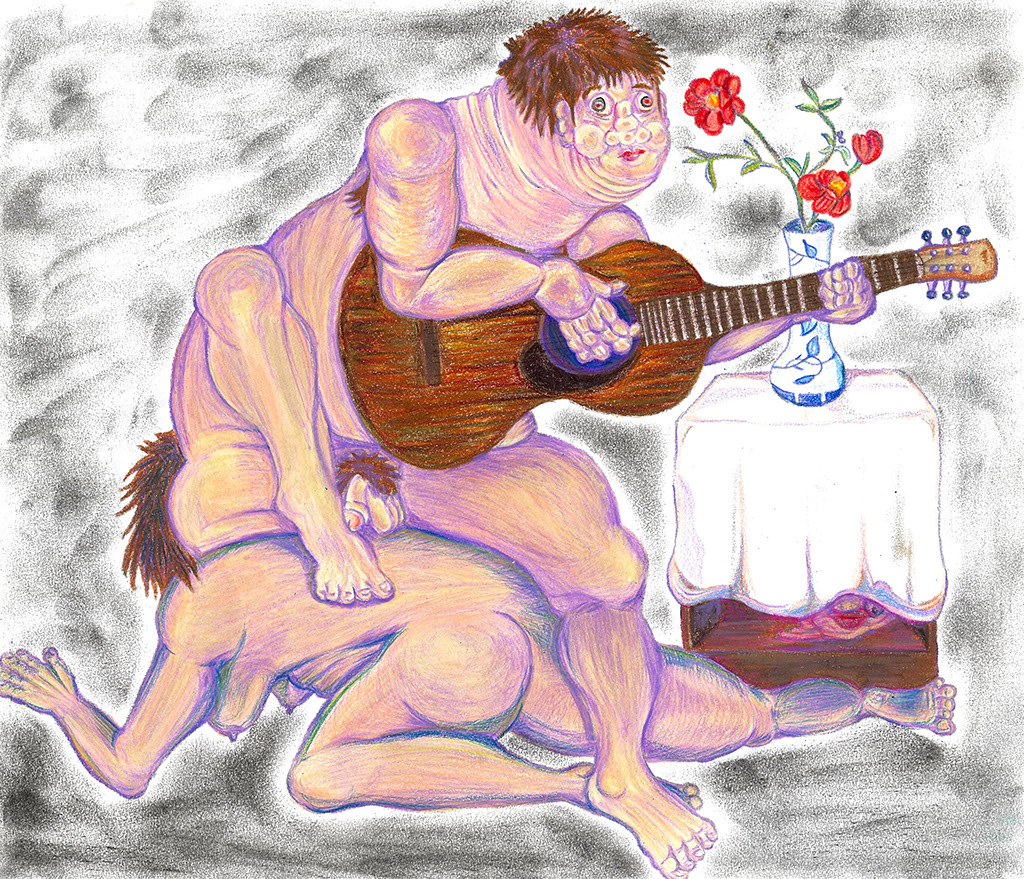
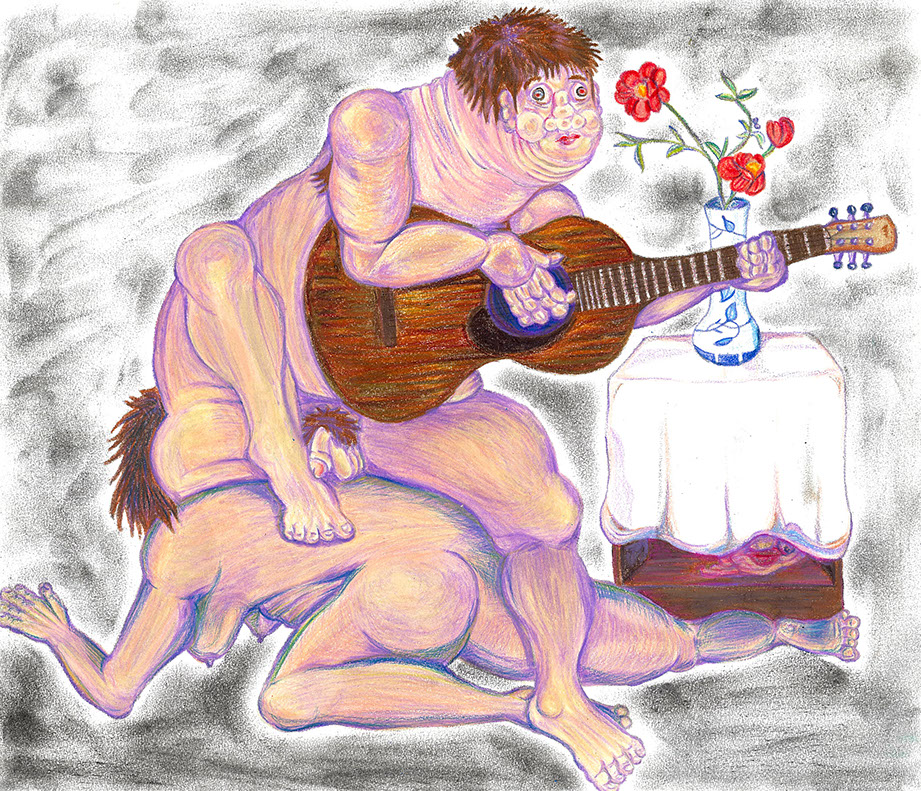
add

Changed region(s): [[0.76, 0.182, 0.7904, 0.2124], [0.6384, 0.3641, 0.6688, 0.3944], [0.608, 0.091, 0.6384, 0.1214]]

diff --git a/baitei/css/site_global.css b/baitei/css/site_global.css
@@ -1,1 +1,1 @@
-html{min-height:100%;min-width:100%;-ms-text-size-adjust:none;}body,div,dl,dt,dd,ul,ol,li,nav,h1,h2,h3,h4,h5,h6,pre,code,form,fieldset,legend,input,button,textarea,p,blockquote,th,td,a{margin:0px;padding:0px;border-width:0px;border-style:solid;border-color:transparent;-webkit-transform-origin:left top;-ms-transform-origin:left top;-o-transform-origin:left top;transform-origin:left top;background-repeat:no-repeat;}button.submit-btn{-moz-box-sizing:content-box;-webkit-box-sizing:content-box;box-sizing:content-box;}.transition{-webkit-transition-property:background-image,background-position,background-color,border-color,border-radius,color,font-size,font-style,font-weight,letter-spacing,line-height,text-align,box-shadow,text-shadow,opacity;transition-property:background-image,background-position,background-color,border-color,border-radius,color,font-size,font-style,font-weight,letter-spacing,line-height,text-align,box-shadow,text-shadow,opacity;}.transition *{-webkit-transition:inherit;transition:inherit;}table{border-collapse:collapse;border-spacing:0px;}fieldset,img{border:0px;border-style:solid;-webkit-transform-origin:left top;-ms-transform-origin:left top;-o-transform-origin:left top;transform-origin:left top;}address,caption,cite,code,dfn,em,strong,th,var,optgroup{font-style:inherit;font-weight:inherit;}del,ins{text-decoration:none;}li{list-style:none;}caption,th{text-align:left;}h1,h2,h3,h4,h5,h6{font-size:100%;font-weight:inherit;}input,button,textarea,select,optgroup,option{font-family:inherit;font-size:inherit;font-style:inherit;font-weight:inherit;}.form-grp input,.form-grp textarea{-webkit-appearance:none;-webkit-border-radius:0;}body{font-family:Arial, Helvetica Neue, Helvetica, sans-serif;text-align:left;font-size:14px;line-height:17px;word-wrap:break-word;text-rendering:optimizeLegibility;-moz-font-feature-settings:'liga';-ms-font-feature-settings:'liga';-webkit-font-feature-settings:'liga';font-feature-settings:'liga';}a:link{color:#050505;text-decoration:underline;}a:visited{color:#050505;text-decoration:underline;}a:hover{color:#050505;text-decoration:underline;}a:active{color:#050505;text-decoration:underline;}a.nontext{color:black;text-decoration:none;font-style:normal;font-weight:normal;}.normal_text{color:#000000;direction:ltr;font-family:Arial, Helvetica Neue, Helvetica, sans-serif;font-size:14px;font-style:normal;font-weight:normal;letter-spacing:0px;line-height:17px;text-align:left;text-decoration:none;text-indent:0px;text-transform:none;vertical-align:0px;padding:0px;}.list0 li:before{position:absolute;right:100%;letter-spacing:0px;text-decoration:none;font-weight:normal;font-style:normal;}.rtl-list li:before{right:auto;left:100%;}.nls-None > li:before,.nls-None .list3 > li:before,.nls-None .list6 > li:before{margin-right:6px;content:'•';}.nls-None .list1 > li:before,.nls-None .list4 > li:before,.nls-None .list7 > li:before{margin-right:6px;content:'○';}.nls-None,.nls-None .list1,.nls-None .list2,.nls-None .list3,.nls-None .list4,.nls-None .list5,.nls-None .list6,.nls-None .list7,.nls-None .list8{padding-left:34px;}.nls-None.rtl-list,.nls-None .list1.rtl-list,.nls-None .list2.rtl-list,.nls-None .list3.rtl-list,.nls-None .list4.rtl-list,.nls-None .list5.rtl-list,.nls-None .list6.rtl-list,.nls-None .list7.rtl-list,.nls-None .list8.rtl-list{padding-left:0px;padding-right:34px;}.nls-None .list2 > li:before,.nls-None .list5 > li:before,.nls-None .list8 > li:before{margin-right:6px;content:'-';}.nls-None.rtl-list > li:before,.nls-None .list1.rtl-list > li:before,.nls-None .list2.rtl-list > li:before,.nls-None .list3.rtl-list > li:before,.nls-None .list4.rtl-list > li:before,.nls-None .list5.rtl-list > li:before,.nls-None .list6.rtl-list > li:before,.nls-None .list7.rtl-list > li:before,.nls-None .list8.rtl-list > li:before{margin-right:0px;margin-left:6px;}.TabbedPanelsTab{white-space:nowrap;}.MenuBar .MenuBarView,.MenuBar .SubMenuView{display:block;list-style:none;}.MenuBar .SubMenu{display:none;position:absolute;}.NoWrap{white-space:nowrap;word-wrap:normal;}.rootelem{margin-left:auto;margin-right:auto;}.colelem{display:inline;float:left;clear:both;}.clearfix:after{content:"\0020";visibility:hidden;display:block;height:0px;clear:both;}*:first-child+html .clearfix{zoom:1;}.clip_frame{overflow:hidden;}.popup_anchor{position:relative;width:0px;height:0px;}.allow_click_through *{pointer-events:auto;}.popup_element{z-index:100000;}.svg{display:block;vertical-align:top;}span.wrap{content:'';clear:left;display:block;}span.actAsInlineDiv{display:inline-block;}.position_content,.excludeFromNormalFlow{float:left;}.preload_images{position:absolute;overflow:hidden;left:-9999px;top:-9999px;height:1px;width:1px;}.preload{height:1px;width:1px;}.animateStates{-webkit-transition:0.3s ease-in-out;-moz-transition:0.3s ease-in-out;-o-transition:0.3s ease-in-out;transition:0.3s ease-in-out;}[data-whatinput="mouse"] *:focus,[data-whatinput="touch"] *:focus,input:focus,textarea:focus{outline:none;}textarea{resize:none;overflow:auto;}.allow_click_through,.fld-prompt{pointer-events:none;}.wrapped-input{position:absolute;top:0px;left:0px;background:transparent;border:none;}.submit-btn{z-index:50000;cursor:pointer;}.anchor_item{width:22px;height:18px;}.MenuBar .SubMenuVisible,.MenuBarVertical .SubMenuVisible,.MenuBar .SubMenu .SubMenuVisible,.popup_element.Active,span.actAsPara,.actAsDiv,a.nonblock.nontext,img.block{display:block;}.widget_invisible,.js .invi,.js .mse_pre_init{visibility:hidden;}.ose_ei{visibility:hidden;z-index:0;}.no_vert_scroll{overflow-y:hidden;}.always_vert_scroll{overflow-y:scroll;}.always_horz_scroll{overflow-x:scroll;}.fullscreen{overflow:hidden;left:0px;top:0px;position:fixed;height:100%;width:100%;-moz-box-sizing:border-box;-webkit-box-sizing:border-box;-ms-box-sizing:border-box;box-sizing:border-box;}.fullwidth{position:absolute;}.borderbox{-moz-box-sizing:border-box;-webkit-box-sizing:border-box;-ms-box-sizing:border-box;box-sizing:border-box;}.scroll_wrapper{position:absolute;overflow:auto;left:0px;right:0px;top:0px;bottom:0px;padding-top:0px;padding-bottom:0px;margin-top:0px;margin-bottom:0px;}.browser_width > *{position:absolute;left:0px;right:0px;}.grpelem,.accordion_wrapper{display:inline;float:left;}.fld-checkbox input[type=checkbox],.fld-radiobutton input[type=radio]{position:absolute;overflow:hidden;clip:rect(0px, 0px, 0px, 0px);height:1px;width:1px;margin:-1px;padding:0px;border:0px;}.fld-checkbox input[type=checkbox] + label,.fld-radiobutton input[type=radio] + label{display:inline-block;background-repeat:no-repeat;cursor:pointer;float:left;width:100%;height:100%;}.pointer_cursor,.fld-recaptcha-mode,.fld-recaptcha-refresh,.fld-recaptcha-help{cursor:pointer;}p,h1,h2,h3,h4,h5,h6,ol,ul,span.actAsPara{max-height:1000000px;}.superscript{vertical-align:super;font-size:66%;line-height:0px;}.subscript{vertical-align:sub;font-size:66%;line-height:0px;}.horizontalSlideShow{-ms-touch-action:pan-y;touch-action:pan-y;}.verticalSlideShow{-ms-touch-action:pan-x;touch-action:pan-x;}.colelem100,.verticalspacer{clear:both;}.list0 li,.MenuBar .MenuItemContainer,.SlideShowContentPanel .fullscreen img,.css_verticalspacer .verticalspacer{position:relative;}.popup_element.Inactive,.js .disn,.js .an_invi,.hidden,.breakpoint{display:none;}#muse_css_mq{position:absolute;display:none;background-color:#FFFFFE;}.fluid_height_spacer{width:0.01px;}.muse_check_css{display:none;position:fixed;}@media screen and (-webkit-min-device-pixel-ratio:0){body{text-rendering:auto;}}
+html{min-height:100%;min-width:100%;-ms-text-size-adjust:none;}body,div,dl,dt,dd,ul,ol,li,nav,h1,h2,h3,h4,h5,h6,pre,code,form,fieldset,legend,input,button,textarea,p,blockquote,th,td,a{margin:0px;padding:0px;border-width:0px;border-style:solid;border-color:transparent;-webkit-transform-origin:left top;-ms-transform-origin:left top;-o-transform-origin:left top;transform-origin:left top;background-repeat:no-repeat;}button.submit-btn{-moz-box-sizing:content-box;-webkit-box-sizing:content-box;box-sizing:content-box;}.transition{-webkit-transition-property:background-image,background-position,background-color,border-color,border-radius,color,font-size,font-style,font-weight,letter-spacing,line-height,text-align,box-shadow,text-shadow,opacity;transition-property:background-image,background-position,background-color,border-color,border-radius,color,font-size,font-style,font-weight,letter-spacing,line-height,text-align,box-shadow,text-shadow,opacity;}.transition *{-webkit-transition:inherit;transition:inherit;}table{border-collapse:collapse;border-spacing:0px;}fieldset,img{border:0px;border-style:solid;-webkit-transform-origin:left top;-ms-transform-origin:left top;-o-transform-origin:left top;transform-origin:left top;}address,caption,cite,code,dfn,em,strong,th,var,optgroup{font-style:inherit;font-weight:inherit;}del,ins{text-decoration:none;}li{list-style:none;}caption,th{text-align:left;}h1,h2,h3,h4,h5,h6{font-size:100%;font-weight:inherit;}input,button,textarea,select,optgroup,option{font-family:inherit;font-size:inherit;font-style:inherit;font-weight:inherit;}.form-grp input,.form-grp textarea{-webkit-appearance:none;-webkit-border-radius:0;}body{font-family:Arial, Helvetica Neue, Helvetica, sans-serif;text-align:left;font-size:14px;line-height:17px;word-wrap:break-word;text-rendering:optimizeLegibility;-moz-font-feature-settings:'liga';-ms-font-feature-settings:'liga';-webkit-font-feature-settings:'liga';font-feature-settings:'liga';}a{color:inherit;text-decoration:inherit;}a:link{color:#050505;text-decoration:underline;}a:visited{color:#050505;text-decoration:underline;}a:hover{color:#050505;text-decoration:underline;}a:active{color:#050505;text-decoration:underline;}a.nontext{color:black;text-decoration:none;font-style:normal;font-weight:normal;}.normal_text{color:#000000;direction:ltr;font-family:Arial, Helvetica Neue, Helvetica, sans-serif;font-size:14px;font-style:normal;font-weight:normal;letter-spacing:0px;line-height:17px;text-align:left;text-decoration:none;text-indent:0px;text-transform:none;vertical-align:0px;padding:0px;}.list0 li:before{position:absolute;right:100%;letter-spacing:0px;text-decoration:none;font-weight:normal;font-style:normal;}.rtl-list li:before{right:auto;left:100%;}.nls-None > li:before,.nls-None .list3 > li:before,.nls-None .list6 > li:before{margin-right:6px;content:'•';}.nls-None .list1 > li:before,.nls-None .list4 > li:before,.nls-None .list7 > li:before{margin-right:6px;content:'○';}.nls-None,.nls-None .list1,.nls-None .list2,.nls-None .list3,.nls-None .list4,.nls-None .list5,.nls-None .list6,.nls-None .list7,.nls-None .list8{padding-left:34px;}.nls-None.rtl-list,.nls-None .list1.rtl-list,.nls-None .list2.rtl-list,.nls-None .list3.rtl-list,.nls-None .list4.rtl-list,.nls-None .list5.rtl-list,.nls-None .list6.rtl-list,.nls-None .list7.rtl-list,.nls-None .list8.rtl-list{padding-left:0px;padding-right:34px;}.nls-None .list2 > li:before,.nls-None .list5 > li:before,.nls-None .list8 > li:before{margin-right:6px;content:'-';}.nls-None.rtl-list > li:before,.nls-None .list1.rtl-list > li:before,.nls-None .list2.rtl-list > li:before,.nls-None .list3.rtl-list > li:before,.nls-None .list4.rtl-list > li:before,.nls-None .list5.rtl-list > li:before,.nls-None .list6.rtl-list > li:before,.nls-None .list7.rtl-list > li:before,.nls-None .list8.rtl-list > li:before{margin-right:0px;margin-left:6px;}.TabbedPanelsTab{white-space:nowrap;}.MenuBar .MenuBarView,.MenuBar .SubMenuView{display:block;list-style:none;}.MenuBar .SubMenu{display:none;position:absolute;}.NoWrap{white-space:nowrap;word-wrap:normal;}.rootelem{margin-left:auto;margin-right:auto;}.colelem{display:inline;float:left;clear:both;}.clearfix:after{content:"\0020";visibility:hidden;display:block;height:0px;clear:both;}*:first-child+html .clearfix{zoom:1;}.clip_frame{overflow:hidden;}.popup_anchor{position:relative;width:0px;height:0px;}.allow_click_through *{pointer-events:auto;}.popup_element{z-index:100000;}.svg{display:block;vertical-align:top;}span.wrap{content:'';clear:left;display:block;}span.actAsInlineDiv{display:inline-block;}.position_content,.excludeFromNormalFlow{float:left;}.preload_images{position:absolute;overflow:hidden;left:-9999px;top:-9999px;height:1px;width:1px;}.preload{height:1px;width:1px;}.animateStates{-webkit-transition:0.3s ease-in-out;-moz-transition:0.3s ease-in-out;-o-transition:0.3s ease-in-out;transition:0.3s ease-in-out;}[data-whatinput="mouse"] *:focus,[data-whatinput="touch"] *:focus,input:focus,textarea:focus{outline:none;}textarea{resize:none;overflow:auto;}.allow_click_through,.fld-prompt{pointer-events:none;}.wrapped-input{position:absolute;top:0px;left:0px;background:transparent;border:none;}.submit-btn{z-index:50000;cursor:pointer;}.anchor_item{width:22px;height:18px;}.MenuBar .SubMenuVisible,.MenuBarVertical .SubMenuVisible,.MenuBar .SubMenu .SubMenuVisible,.popup_element.Active,span.actAsPara,.actAsDiv,a.nonblock.nontext,img.block{display:block;}.widget_invisible,.js .invi,.js .mse_pre_init{visibility:hidden;}.ose_ei{visibility:hidden;z-index:0;}.no_vert_scroll{overflow-y:hidden;}.always_vert_scroll{overflow-y:scroll;}.always_horz_scroll{overflow-x:scroll;}.fullscreen{overflow:hidden;left:0px;top:0px;position:fixed;height:100%;width:100%;-moz-box-sizing:border-box;-webkit-box-sizing:border-box;-ms-box-sizing:border-box;box-sizing:border-box;}.fullwidth{position:absolute;}.borderbox{-moz-box-sizing:border-box;-webkit-box-sizing:border-box;-ms-box-sizing:border-box;box-sizing:border-box;}.scroll_wrapper{position:absolute;overflow:auto;left:0px;right:0px;top:0px;bottom:0px;padding-top:0px;padding-bottom:0px;margin-top:0px;margin-bottom:0px;}.browser_width > *{position:absolute;left:0px;right:0px;}.grpelem,.accordion_wrapper{display:inline;float:left;}.fld-checkbox input[type=checkbox],.fld-radiobutton input[type=radio]{position:absolute;overflow:hidden;clip:rect(0px, 0px, 0px, 0px);height:1px;width:1px;margin:-1px;padding:0px;border:0px;}.fld-checkbox input[type=checkbox] + label,.fld-radiobutton input[type=radio] + label{display:inline-block;background-repeat:no-repeat;cursor:pointer;float:left;width:100%;height:100%;}.pointer_cursor,.fld-recaptcha-mode,.fld-recaptcha-refresh,.fld-recaptcha-help{cursor:pointer;}p,h1,h2,h3,h4,h5,h6,ol,ul,span.actAsPara{max-height:1000000px;}.superscript{vertical-align:super;font-size:66%;line-height:0px;}.subscript{vertical-align:sub;font-size:66%;line-height:0px;}.horizontalSlideShow{-ms-touch-action:pan-y;touch-action:pan-y;}.verticalSlideShow{-ms-touch-action:pan-x;touch-action:pan-x;}.colelem100,.verticalspacer{clear:both;}.list0 li,.MenuBar .MenuItemContainer,.SlideShowContentPanel .fullscreen img,.css_verticalspacer .verticalspacer{position:relative;}.popup_element.Inactive,.js .disn,.js .an_invi,.hidden,.breakpoint{display:none;}#muse_css_mq{position:absolute;display:none;background-color:#FFFFFE;}.fluid_height_spacer{width:0.01px;}.muse_check_css{display:none;position:fixed;}@media screen and (-webkit-min-device-pixel-ratio:0){body{text-rendering:auto;}}

diff --git a/baitei/css/index.css b/baitei/css/index.css
@@ -1,1 +1,1 @@
-.version.index{color:#0000E3;background-color:#E511AD;}#page{z-index:1;width:1024px;min-height:2047px;background-image:none;border-width:0px;border-color:#000000;background-color:transparent;padding-bottom:62px;margin-left:auto;margin-right:auto;}#untitled{position:relative;margin-right:-10000px;width:22px;left:-100px;}#pu1965{z-index:27;width:0.01px;margin-right:-10000px;margin-top:88px;}#u1965{z-index:27;width:1024px;background-color:transparent;position:relative;}#u1975{z-index:29;width:343px;background-color:transparent;margin-left:341px;margin-top:88px;position:relative;}#u1879{z-index:16;width:50px;height:50px;position:relative;margin-right:-10000px;left:1074px;}.ie #u1879{background-color:#FFFFFF;opacity:0.01;-ms-filter:"progid:DXImageTransform.Microsoft.Alpha(Opacity=1)";filter:alpha(opacity=1);}.css_verticalspacer .verticalspacer{height:calc(100vh - 1996px);}#u1915{z-index:24;width:116px;background-color:transparent;position:relative;margin-right:-10000px;margin-top:-9px;}#pu1902{z-index:2;width:0.01px;margin-right:-10000px;margin-top:-1997px;margin-left:904px;}#u1902{z-index:2;width:170px;border-width:0px;border-color:transparent;background-color:transparent;position:relative;}#u1851-5{z-index:3;width:50px;min-height:9px;background-color:transparent;line-height:17px;color:#050505;text-align:center;font-size:11px;font-family:Helvetica, Helvetica Neue, Arial, sans-serif;position:relative;margin-right:-10000px;}#u1851{color:#050505;}#u1853-4{z-index:12;width:38px;min-height:8px;background-color:transparent;line-height:17px;color:#050505;text-align:center;font-size:11px;font-family:Helvetica, Helvetica Neue, Arial, sans-serif;position:relative;margin-right:-10000px;left:66px;}#u1852-4{z-index:8;width:50px;min-height:8px;background-color:transparent;line-height:17px;color:#050505;text-align:center;font-size:11px;font-family:Helvetica, Helvetica Neue, Arial, sans-serif;position:relative;margin-right:-10000px;left:120px;}#u1853,#u1852{text-decoration:underline;}#u1962{z-index:17;width:95px;border-width:0px;border-color:transparent;background-color:transparent;margin-left:25px;margin-top:1955px;position:relative;}#u1909{z-index:18;width:25px;background-color:transparent;position:relative;margin-right:-10000px;}#u1911{z-index:20;width:25px;background-color:transparent;position:relative;margin-right:-10000px;left:35px;}#u1913{z-index:22;width:25px;background-color:transparent;position:relative;margin-right:-10000px;left:70px;}#muse_css_mq,.html{background-color:#FFFFFF;}body{position:relative;min-width:1024px;}.verticalspacer{min-height:113px;}
+.version.index{color:#000001;background-color:#654D4B;}#page{z-index:1;width:1024px;min-height:1931px;background-image:none;border-width:0px;border-color:#000000;background-color:transparent;padding-bottom:62px;margin-left:auto;margin-right:auto;}#untitled{position:relative;margin-right:-10000px;width:22px;left:-100px;}#pu1965{z-index:27;width:0.01px;margin-right:-10000px;margin-top:88px;margin-left:51px;}#u1965{z-index:27;width:921px;background-color:transparent;position:relative;}#u2004{z-index:29;width:921px;border-width:0px;border-color:transparent;background-color:transparent;margin-left:1px;margin-top:88px;position:relative;}#u1975{z-index:30;width:343px;background-color:transparent;position:relative;margin-right:-10000px;}#u1991{z-index:32;width:490px;background-color:transparent;position:relative;margin-right:-10000px;left:431px;}#u1879{z-index:16;width:50px;height:50px;position:relative;margin-right:-10000px;left:1074px;}.ie #u1879{background-color:#FFFFFF;opacity:0.01;-ms-filter:"progid:DXImageTransform.Microsoft.Alpha(Opacity=1)";filter:alpha(opacity=1);}.css_verticalspacer .verticalspacer{height:calc(100vh - 1907px);}#u1915{z-index:24;width:116px;background-color:transparent;position:relative;margin-right:-10000px;margin-top:-8px;left:52px;}#pu1902{z-index:2;width:0.01px;margin-right:-10000px;margin-top:-1881px;margin-left:877px;}#u1902{z-index:2;width:170px;border-width:0px;border-color:transparent;background-color:transparent;margin-left:27px;position:relative;}#u1851-5{z-index:3;width:50px;min-height:9px;background-color:transparent;color:#050505;text-align:center;font-size:11px;line-height:17px;font-family:Helvetica, Helvetica Neue, Arial, sans-serif;position:relative;margin-right:-10000px;}#u1851{color:#050505;}#u1853-4{z-index:12;width:38px;min-height:8px;background-color:transparent;color:#050505;text-align:center;font-size:11px;line-height:17px;font-family:Helvetica, Helvetica Neue, Arial, sans-serif;position:relative;margin-right:-10000px;left:66px;}#u1852-4{z-index:8;width:50px;min-height:8px;background-color:transparent;color:#050505;text-align:center;font-size:11px;line-height:17px;font-family:Helvetica, Helvetica Neue, Arial, sans-serif;position:relative;margin-right:-10000px;left:120px;}#u1853,#u1852{text-decoration:underline;}#u1962{z-index:17;width:95px;border-width:0px;border-color:transparent;background-color:transparent;margin-top:1839px;position:relative;}#u1909{z-index:18;width:25px;background-color:transparent;position:relative;margin-right:-10000px;}#u1911{z-index:20;width:25px;background-color:transparent;position:relative;margin-right:-10000px;left:35px;}#u1913{z-index:22;width:25px;background-color:transparent;position:relative;margin-right:-10000px;left:70px;}#muse_css_mq,.html{background-color:#FFFFFF;}body{position:relative;min-width:1024px;}.verticalspacer{min-height:85px;}

diff --git a/baitei/index.html b/baitei/index.html
@@ -15,8 +15,8 @@ if(typeof Muse == "undefined") window.Muse = {}; window.Muse.assets = {"required
   
   <title>baitei</title>
   <!-- CSS -->
-  <link rel="stylesheet" type="text/css" href="css/site_global.css?crc=4139458515"/>
-  <link rel="stylesheet" type="text/css" href="css/index.css?crc=3823440301" id="pagesheet"/>
+  <link rel="stylesheet" type="text/css" href="css/site_global.css?crc=524582882"/>
+  <link rel="stylesheet" type="text/css" href="css/index.css?crc=23416139" id="pagesheet"/>
    </head>
  <body>
 
@@ -24,14 +24,19 @@ if(typeof Muse == "undefined") window.Muse = {}; window.Muse.assets = {"required
    <a class="anchor_item grpelem" id="untitled"></a>
    <div class="clearfix grpelem" id="pu1965"><!-- column -->
     <div class="clip_frame colelem" id="u1965"><!-- image -->
-     <img class="block" id="u1965_img" src="images/drawing.jpg?crc=213111312" data-hidpi-src="images/drawing_2x.jpg?crc=462451274" alt="" width="1024" height="879"/>
+     <img class="block" id="u1965_img" src="images/drawing.jpg?crc=107189654" data-hidpi-src="images/drawing_2x.jpg?crc=4107037553" alt="" width="921" height="791"/>
     </div>
-    <div class="clip_frame colelem" id="u1975"><!-- image -->
-     <img class="block" id="u1975_img" src="images/20201027010012_00000002.jpg?crc=40593206" data-hidpi-src="images/20201027010012_00000002_2x.jpg?crc=20720907" alt="" width="343" height="879"/>
+    <div class="clearfix colelem" id="u2004"><!-- group -->
+     <div class="clip_frame grpelem" id="u1975"><!-- image -->
+      <img class="block" id="u1975_img" src="images/20201027010012_00000002.jpg?crc=40593206" data-hidpi-src="images/20201027010012_00000002_2x.jpg?crc=20720907" alt="" width="343" height="879"/>
+     </div>
+     <div class="clip_frame grpelem" id="u1991"><!-- image -->
+      <img class="block" id="u1991_img" src="images/20201209191752_00000001.jpg?crc=164543918" data-hidpi-src="images/20201209191752_00000001_2x.jpg?crc=427322054" alt="" width="490" height="879"/>
+     </div>
     </div>
    </div>
    <div class="grpelem" id="u1879"><!-- simple frame --></div>
-   <div class="verticalspacer" data-offset-top="1934" data-content-above-spacer="1934" data-content-below-spacer="62"></div>
+   <div class="verticalspacer" data-offset-top="1846" data-content-above-spacer="1845" data-content-below-spacer="62"></div>
    <div class="clip_frame grpelem" id="u1915"><!-- image -->
     <img class="block" id="u1915_img" src="images/rights.png?crc=439214979" data-hidpi-src="images/rights_2x.png?crc=443231054" alt="" width="116" height="9"/>
    </div>
